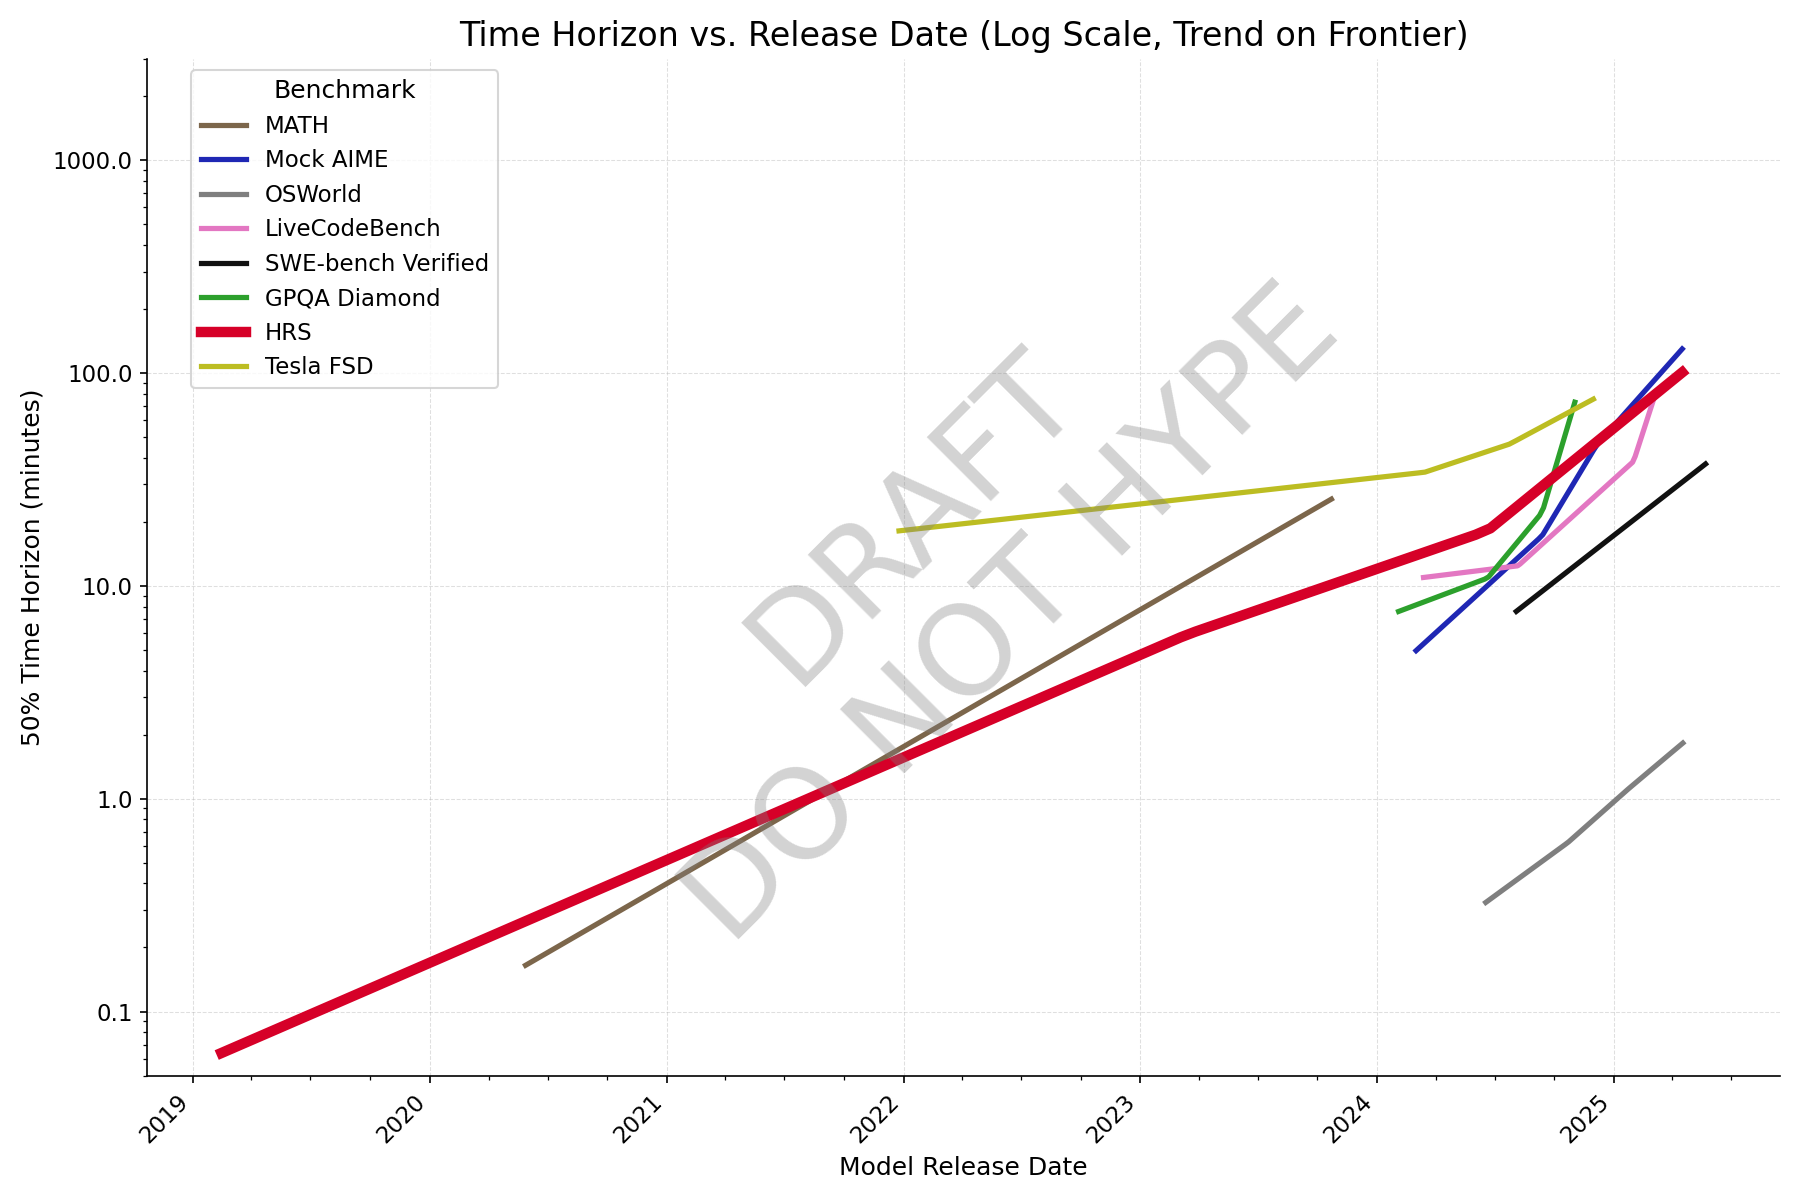
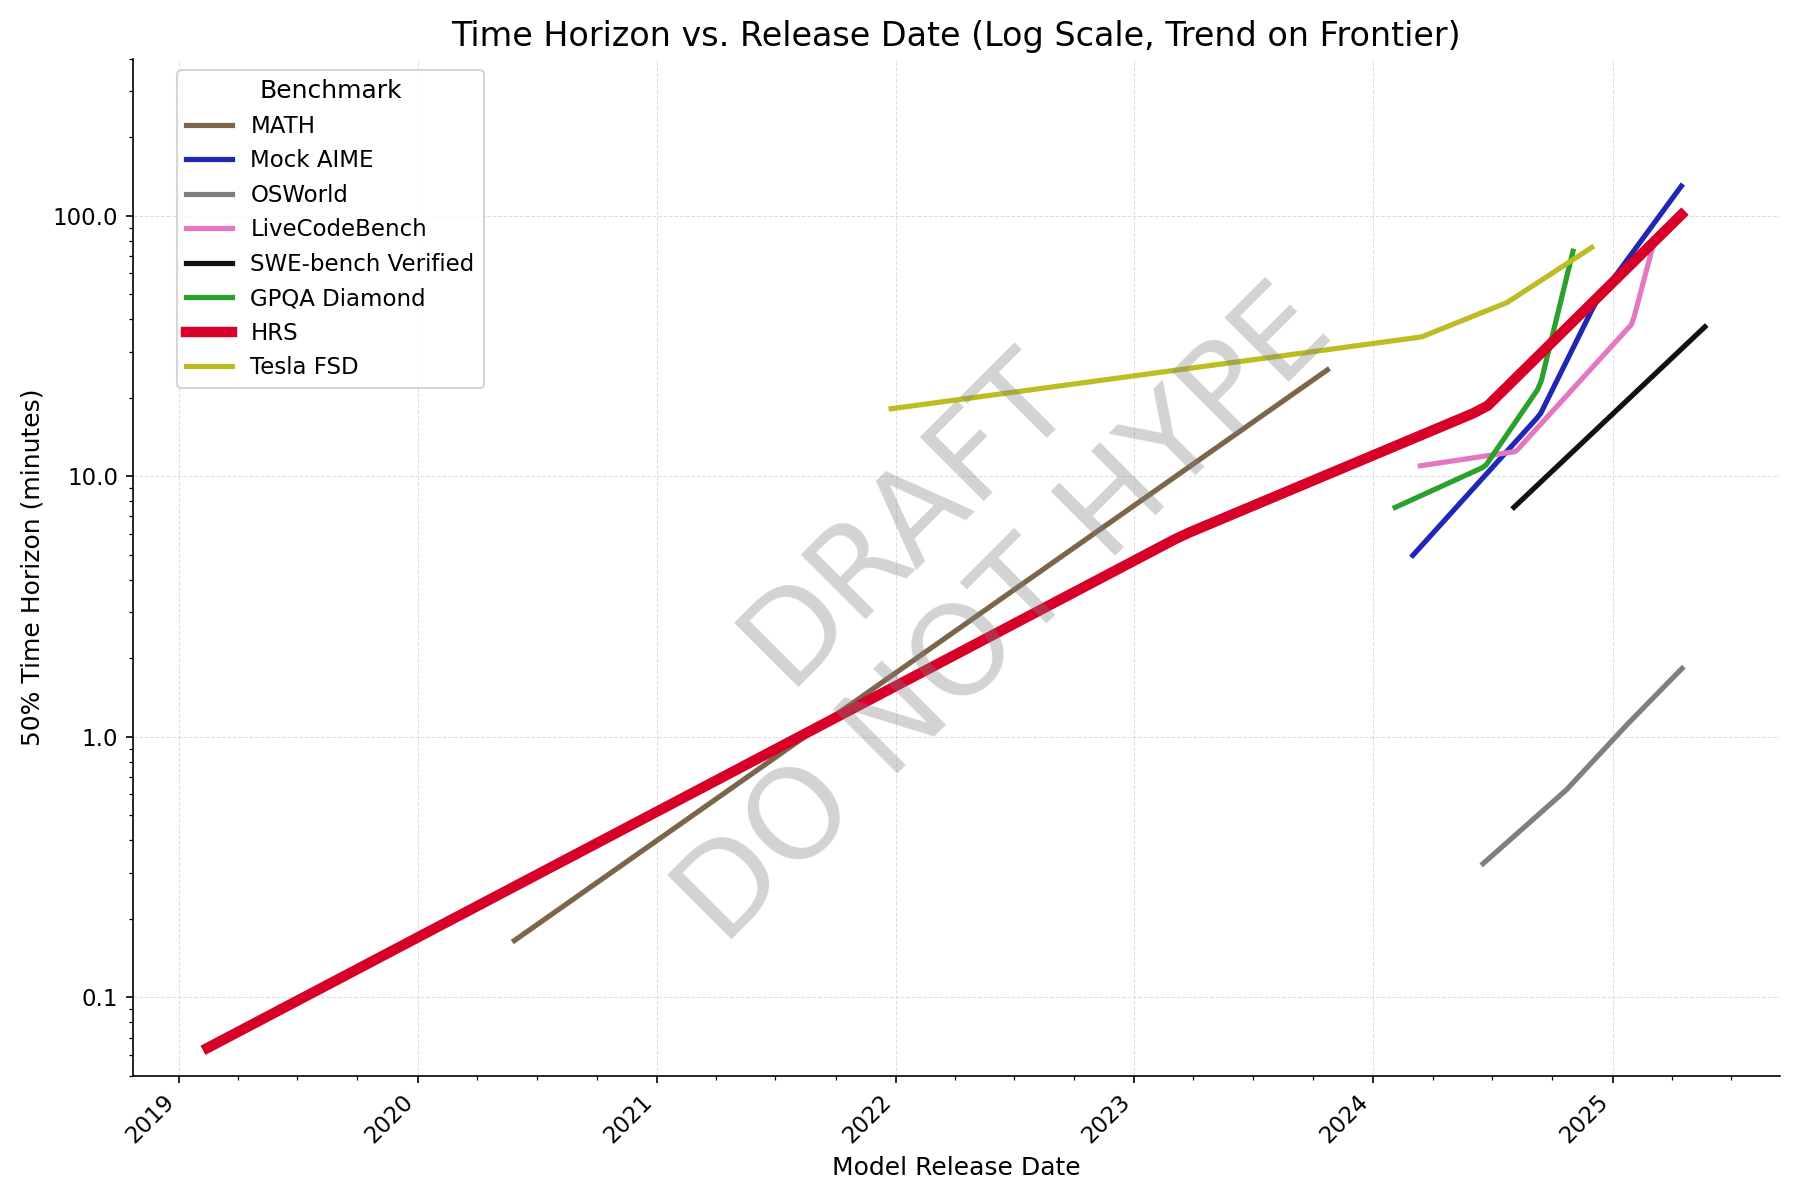
overlay plot

diff --git a/plots.py b/plots.py
@@ -55,6 +55,8 @@ class LinesPlotParams:
     title: str = "Time Horizon vs. Release Date (Log Scale, Trend on Frontier)"
     verbose: bool = False
     xbound: tuple[str, str] | None = None
+    ybound: tuple[float, float] | None = None
+    overlay: bool = False
 
 def add_watermark(ax=None, text="DRAFT\nDO NOT HYPE", alpha=0.35):
     """Add a watermark to the current plot or specified axes."""
@@ -127,7 +129,12 @@ def plot_lines_over_time(df, output_file,
         if frontier_indices:
             plot_df.loc[frontier_indices, 'is_frontier'] = True
 
-    if params.subplots:
+    if params.overlay:
+        # Create figure normally - we'll add the background image later
+        fig, ax = plt.subplots(figsize=(12, 8))
+        # Store the background image path for later use
+        fig._overlay_image_path = 'plots/original_time_horizon_plot.png'
+    elif params.subplots:
         # last subplot contains legend
         nrows = (len(benchmarks) + 1) // 2
         fig, axs = plt.subplots(figsize=(12, nrows * 4), nrows=nrows, ncols=2, sharex=True, sharey=True)
@@ -304,6 +311,9 @@ def plot_lines_over_time(df, output_file,
         start_date, end_date = params.xbound
         ax.set_xlim(pd.to_datetime(start_date), pd.to_datetime(end_date))
 
+    if params.ybound is not None:
+        ax.set_ylim(params.ybound)
+
 
     # Create a legend
     handles, labels = ax.get_legend_handles_labels()
@@ -348,6 +358,29 @@ def plot_lines_over_time(df, output_file,
             axs[i].set_axis_off()
 
     plt.tight_layout()
+
+    # Add background image if this is an overlay plot
+    if hasattr(fig, '_overlay_image_path'):
+        import matplotlib.image as mpimg
+        from PIL import Image
+        try:
+            background_img = mpimg.imread(fig._overlay_image_path)
+            
+            # Get figure dimensions in pixels
+            fig_width_px = fig.get_figwidth() * fig.dpi / 2
+            fig_height_px = fig.get_figheight() * fig.dpi / 2
+            
+            # Resize background image to match figure size
+            pil_img = Image.fromarray((background_img * 255).astype('uint8'))
+            resized_img = pil_img.resize((int(fig_width_px), int(fig_height_px)), Image.Resampling.LANCZOS)
+            resized_array = np.array(resized_img) / 255.0
+            
+            # Add the background image covering the entire figure
+            fig.figimage(resized_array, xo=0, yo=0, alpha=0.4, zorder=-100)
+        except FileNotFoundError:
+            print(f"Warning: Background image {fig._overlay_image_path} not found.")
+        except ImportError:
+            print("Warning: PIL/Pillow not available for image resizing. Using original size.")
 
     os.makedirs(os.path.dirname(output_file), exist_ok=True)
 
@@ -668,7 +701,7 @@ def main():
 
     # --- Lines Over Time Plot ---
     if "lines" in plots_to_make:
-        plot_lines_over_time(all_df.copy(), HEADLINE_PLOT_OUTPUT_FILE, benchmark_data, LinesPlotParams(hide_benchmarks=["hcast_r_s_full_method", "video_mme", "gpqa", "aime"], show_points_level=ShowPointsLevel.NONE, verbose=False, show_dotted_lines=False))
+        plot_lines_over_time(all_df.copy(), HEADLINE_PLOT_OUTPUT_FILE, benchmark_data, LinesPlotParams(hide_benchmarks=["hcast_r_s_full_method", "video_mme", "gpqa", "aime"], show_points_level=ShowPointsLevel.NONE, verbose=False, show_dotted_lines=False, ybound=(0.05, 400)))
 
         # Generate and save the lines over time plot using the original loaded data
         plot_lines_over_time(all_df.copy(), LINES_PLOT_OUTPUT_FILE, benchmark_data, LinesPlotParams(hide_benchmarks=["hcast_r_s_full_method", "video_mme", "gpqa", "aime"], show_points_level=ShowPointsLevel.FRONTIER, verbose=False))
@@ -677,6 +710,18 @@ def main():
             title="HRS Time Horizons (full method vs average-scores-only)",
             show_benchmarks=["hcast_r_s", "hcast_r_s_full_method"], show_points_level=ShowPointsLevel.FRONTIER,)
         )
+        
+        # Overlay plot - like headline but overlaid on original plot
+        plot_lines_over_time(all_df.copy(), "plots/overlay.png", benchmark_data, LinesPlotParams(
+            hide_benchmarks=["hcast_r_s", "hcast_r_s_full_method", "video_mme", "gpqa", "aime"], 
+            show_points_level=ShowPointsLevel.NONE, 
+            verbose=False, 
+            show_dotted_lines=False, 
+            ybound=(0.05, 400),
+            overlay=True,
+            title="Time Horizon vs. Release Date (Overlay)"
+        ))
+        
         plot_lines_over_time(all_df.copy(), LINES_SUBPLOTS_OUTPUT_FILE, benchmark_data, LinesPlotParams(hide_benchmarks=["hcast_r_s_full_method"], show_points_level=ShowPointsLevel.ALL, subplots=True, show_doubling_rate=True, xbound=("2021-01-01", "2026-01-01")))
 
 
